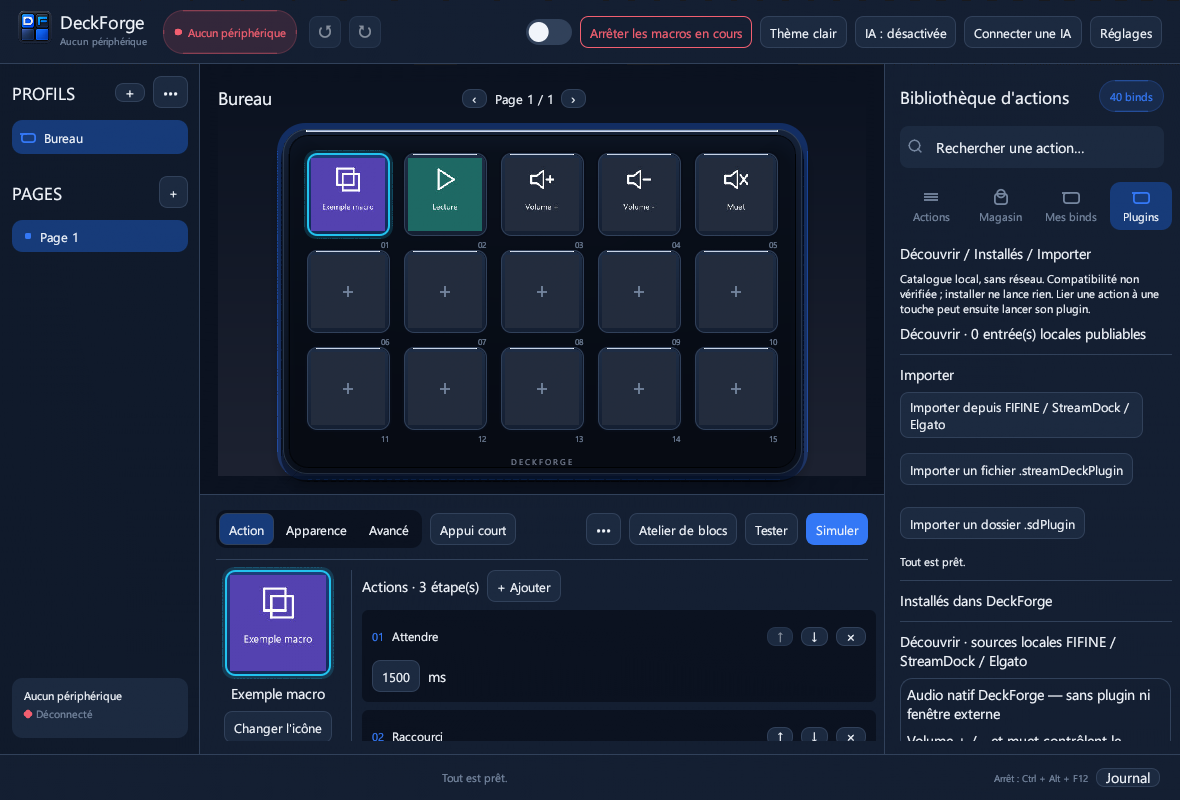
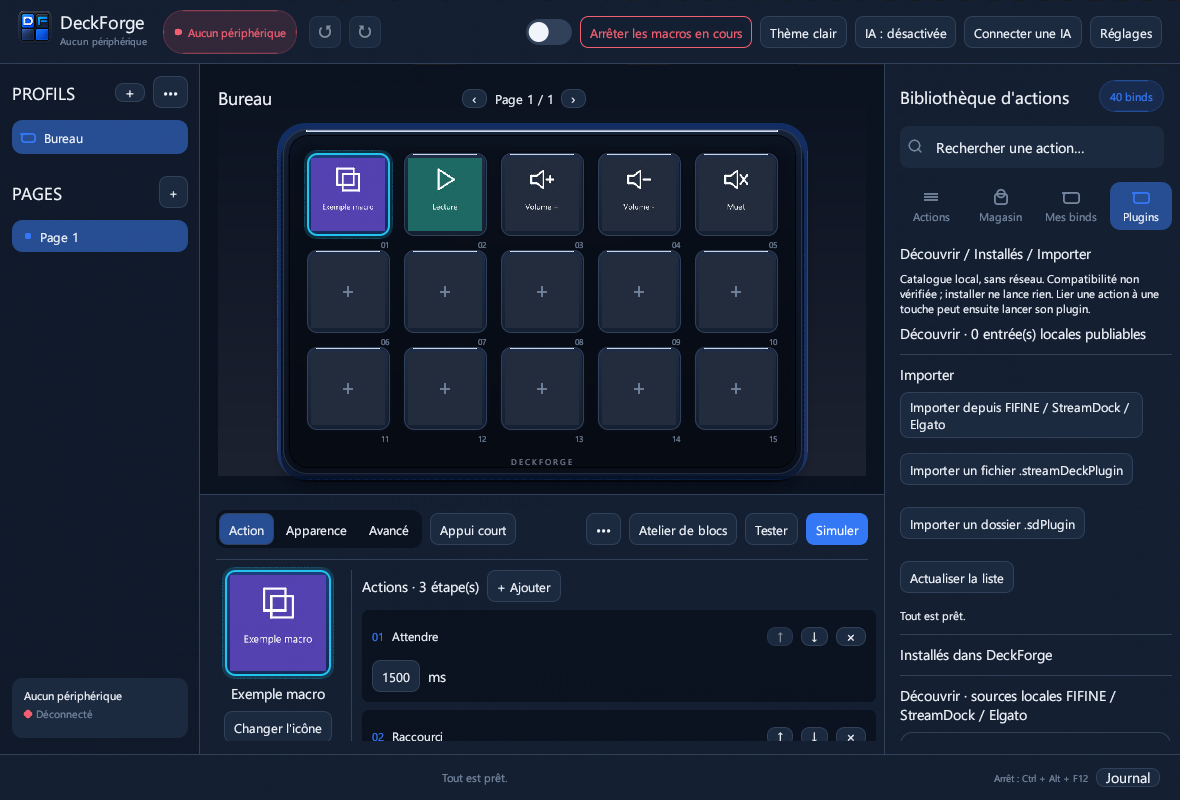
release: DeckForge 0.8.1 (Windows installer, assistant preview first, README and screenshots)

diff --git a/src/ui_workshop_chat.rs b/src/ui_workshop_chat.rs
@@ -334,35 +334,7 @@ impl App {
                             self.workshop_chat.open = false;
                         }
                     }
-                    egui::ScrollArea::vertical()
-                        .id_salt("chat_history")
-                        .max_height((screen.height() * 0.32).clamp(120.0, 320.0))
-                        .show(ui, |ui| {
-                            for message in &self.workshop_chat.messages {
-                                let user = message.starts_with("Vous : ");
-                                ui.with_layout(
-                                    egui::Layout::top_down(if user {
-                                        egui::Align::Max
-                                    } else {
-                                        egui::Align::Min
-                                    }),
-                                    |ui| {
-                                        egui::Frame::new()
-                                            .fill(if user {
-                                                theme::accent().gamma_multiply(0.35)
-                                            } else {
-                                                theme::palette(ctx).surface
-                                            })
-                                            .corner_radius(8)
-                                            .inner_margin(8)
-                                            .show(ui, |ui| {
-                                                ui.set_max_width((ui.available_width() - 16.0).max(80.0));
-                                                ui.add(egui::Label::new(message).wrap());
-                                            });
-                                    },
-                                );
-                            }
-                        });
+                    // Aperçu et boutons Ajouter/Annuler avant l'historique : visibles sans défiler.
                     if let Some(pending) = &self.workshop_chat.pending {
                         ui.separator();
                         if stale {
@@ -475,6 +447,36 @@ impl App {
                             }
                         }
                     }
+                    ui.separator();
+                    egui::ScrollArea::vertical()
+                        .id_salt("chat_history")
+                        .max_height((screen.height() * 0.32).clamp(120.0, 320.0))
+                        .show(ui, |ui| {
+                            for message in &self.workshop_chat.messages {
+                                let user = message.starts_with("Vous : ");
+                                ui.with_layout(
+                                    egui::Layout::top_down(if user {
+                                        egui::Align::Max
+                                    } else {
+                                        egui::Align::Min
+                                    }),
+                                    |ui| {
+                                        egui::Frame::new()
+                                            .fill(if user {
+                                                theme::accent().gamma_multiply(0.35)
+                                            } else {
+                                                theme::palette(ctx).surface
+                                            })
+                                            .corner_radius(8)
+                                            .inner_margin(8)
+                                            .show(ui, |ui| {
+                                                ui.set_max_width((ui.available_width() - 16.0).max(80.0));
+                                                ui.add(egui::Label::new(message).wrap());
+                                            });
+                                    },
+                                );
+                            }
+                        });
                 });
         };
         // Reserve room for the assistant before laying out the canvas at every size.

diff --git a/src/ui_tests.rs b/src/ui_tests.rs
@@ -134,6 +134,26 @@ fn workshop_chat_and_properties_fit_both_screen_sizes() {
 use super::*;
 use egui::{pos2, vec2, Event as Input, Modifiers, PointerButton, Rect};
 #[test]
+fn workshop_chat_previews_a_natural_request_without_running_it() {
+    let mut h = Harness::new();
+    let size = vec2(1366.0, 768.0);
+    h.app.show_workflow = true;
+    h.app.selected = 2;
+    let before = h.app.config.keys()[2].steps.clone();
+    h.app.workshop_chat.open = true;
+    h.app.workshop_chat_send("ferme toutes les fenêtres sauf celle sur laquelle je suis, puis attends 1 s".into(), None);
+    let pending = h.app.workshop_chat.pending.as_ref().expect("aperçu");
+    assert!(matches!(&pending.proposal.steps[..], [Step::WindowOp { op, .. }, Step::Delay { ms: 1000 }] if op == "close_others"));
+    assert_eq!(h.app.config.keys()[2].steps, before, "aucune insertion sans validation");
+    h.warm(size);
+    let output = h.warm(size);
+    assert!(text_position(&output.shapes, "Ajouter").is_some());
+    if let Some(dir) = std::env::var_os("DECKFORGE_UI_OUTPUT") {
+        std::fs::create_dir_all(&dir).unwrap();
+        h.png(size, output, &PathBuf::from(dir).join("atelier-assistant.png"));
+    }
+}
+#[test]
 fn gallery_imports_a_user_icon_without_overwriting_and_applies_it() {
     let mut h = Harness::new();
     let source_dir = tempfile::tempdir().unwrap();

diff --git a/README.md b/README.md
@@ -6,8 +6,8 @@
 
   [![Licence MIT](https://img.shields.io/badge/Licence-MIT-blue.svg)](LICENSE)
   [![Rust](https://img.shields.io/badge/Rust-1.80%2B-orange.svg)](https://www.rust-lang.org/)
-  [![Tests](https://img.shields.io/badge/Tests-334%20pass%C3%A9s-brightgreen.svg)]()
-  [![Version](https://img.shields.io/badge/Release-v0.8.0-purple.svg)](https://github.com/HatiFlash/DeckForge/releases/tag/v0.8.0)
+  [![Tests](https://img.shields.io/badge/Tests-338%20pass%C3%A9s-brightgreen.svg)]()
+  [![Version](https://img.shields.io/badge/Release-v0.8.1-purple.svg)](https://github.com/HatiFlash/DeckForge/releases/tag/v0.8.1)
 </div>
 
 ---
@@ -15,6 +15,19 @@
 **DeckForge** est une application indépendante écrite en **Rust** (egui + wgpu DirectX 12 / Vulkan) conçue pour piloter vos claviers macro physiques avec un niveau de performance, de personnalisation et de sécurité inégalé. Fini les logiciels propriétaires lourds et fermés : DeckForge vous offre une réactivité instantanée, un atelier d'automatisation visuel complet sans dépendance externe, un connecteur IA (MCP) natif et la compatibilité avec l'écosystème de plugins Elgato Stream Deck.
 
 ![Interface principale de DeckForge](docs/interface.png)
+
+---
+
+## 🆕 Nouveautés 0.8.1
+
+- **Installateur Windows** (`DeckForge-0.8.1-Setup.exe`) : sans droits administrateur, raccourcis menu Démarrer / Bureau, désinstallation propre ; profils, préférences, icônes et plugins conservés.
+- **Onglet Plugins corrigé** : plus de gel ni de rafale de fenêtres console à l'ouverture.
+- **Exécutable mieux identifié par Windows** : icône, informations de version et manifeste intégrés (moins de faux positifs Defender ; l'exécutable n'est pas encore signé).
+- **Thèmes** : thème clair refait, styles Bleu nuit, Graphite, Clair et Sable, cinq couleurs d'accent (Réglages → Thème de l'interface).
+- **Assistant de l'atelier plus naturel**, en français et en anglais : « ferme toutes les fenêtres sauf celle sur laquelle je suis », « réduis les autres fenêtres », « affiche le bureau », « wait 2 seconds then open https://… ». Nouveaux blocs *Fermer / Réduire les autres fenêtres*.
+- **Galerie** : bouton « Importer une icône… » ; **aperçu** des touches corrigé (images en portrait cadrées vers le haut, titre lisible) et bouton « Recadrer ».
+
+![Assistant de l'atelier](docs/atelier-assistant.png)
 
 ---
 
@@ -82,8 +95,10 @@ DeckForge embarque un serveur MCP (**Model Context Protocol**) natif pour collab
 
 ## 🚀 Prise en main rapide
 
-1. Téléchargez la dernière version Windows (`DeckForge-0.8.0-Windows.zip`) depuis la [page des Releases](https://github.com/HatiFlash/DeckForge/releases).
-2. Extrayez l'archive dans le dossier de votre choix et lancez `deckforge.exe`.
+1. Téléchargez **`DeckForge-0.8.1-Setup.exe`** depuis la [page des Releases](https://github.com/HatiFlash/DeckForge/releases) et lancez-le (aucun droit administrateur requis). DeckForge s'installe dans `%LOCALAPPDATA%\Programs\DeckForge` avec un raccourci dans le menu Démarrer.
+   - Version portable : `DeckForge-0.8.1-Windows.zip`, à extraire dans le dossier de votre choix.
+   - Vous utilisiez déjà la version portable ? Copiez `config.json`, `preferences.json`, `variables.json` et les dossiers `assets` et `plugins` de l'ancien dossier vers le dossier d'installation, DeckForge fermé.
+2. Lancez DeckForge depuis le menu Démarrer.
 3. *Note importante pour les possesseurs du FIFINE D6 :* veillez à fermer le logiciel officiel FIFINE afin de libérer l'accès USB exclusif pour DeckForge.
 4. Glissez simplement une action depuis la bibliothèque vers la touche souhaitée, ou ouvrez l'**Atelier de blocs** pour composer votre première macro !
 
@@ -101,8 +116,11 @@ cd DeckForge
 # Compiler en mode Release
 cargo build --release --locked
 
-# Lancer la suite complète de tests (334 tests unitaires et d'intégration)
+# Lancer la suite complète de tests (338 tests unitaires et d'intégration)
 cargo test --locked
+
+# Construire l'installateur (Inno Setup 6 ou 7 requis)
+powershell -ExecutionPolicy Bypass -File tools\Build-Installer.ps1 -Version 0.8.1 -Build
 ```
 
 ---

diff --git a/docs/RELEASE-0.8.1.md b/docs/RELEASE-0.8.1.md
@@ -1,0 +1,16 @@
+# DeckForge 0.8.1 — correctifs et confort
+
+## Correctifs prioritaires
+- **Onglet Plugins** : il ne gèle plus l'application. La liste des plugins était relue à chaque image de l'interface et lançait `reg.exe` (rafale de fenêtres console). Elle est désormais lue une fois (bouton « Actualiser la liste »), la version de Windows est lue directement dans le registre et la sonde Node.js est mise en cache, sans console.
+- **Windows Defender** : l'exécutable embarque maintenant son icône, ses informations de version (éditeur HatiFlash, produit DeckForge, version) et un manifeste Windows (`asInvoker`, DPI par écran). Cela réduit les faux positifs heuristiques ; un binaire non signé peut toutefois encore être signalé par SmartScreen/Defender.
+
+## Nouveautés
+- **Installateur Windows** `DeckForge-0.8.1-Setup.exe` : installation sans droits administrateur dans `%LOCALAPPDATA%\Programs\DeckForge`, raccourcis menu Démarrer et Bureau (optionnel), désinstallation propre. Profils, préférences, icônes et plugins sont conservés lors des mises à jour et de la désinstallation. L'archive ZIP reste disponible.
+- **Thèmes** : thème clair refait, quatre styles (Bleu nuit, Graphite, Clair, Sable) et cinq couleurs d'accent dans Réglages → Thème de l'interface.
+- **Assistant de l'atelier** : comprend davantage de demandes naturelles en français et en anglais (ex. « ferme toutes les fenêtres sauf celle sur laquelle je suis », « réduis les autres fenêtres », « affiche le bureau », « fais une capture d'écran », « wait 2 seconds then open https://… »). Nouveaux blocs : *Fermer les autres fenêtres* et *Réduire les autres fenêtres* (la fenêtre active et DeckForge sont toujours conservés ; les applications peuvent proposer d'enregistrer).
+- **Fenêtre de l'assistant** : textes et boutons ne sont plus coupés, panneau redimensionnable, destination lisible, choix « Transmettre à mon IA / Non merci » visible sans défiler.
+- **Galerie d'icônes** : bouton « Importer une icône… » (image, GIF ou vidéo) appliqué directement à la touche, avec passage par l'éditeur de recadrage.
+- **Aperçu des touches** : les images en portrait sont cadrées vers le haut (le haut n'est plus coupé), le titre utilise un dégradé avec ombre au lieu d'un bandeau noir, et un bouton « Recadrer » est disponible sous l'aperçu.
+
+## Compatibilité
+Les profils et préférences existants sont conservés ; les nouveaux réglages de thème ont des valeurs par défaut.
